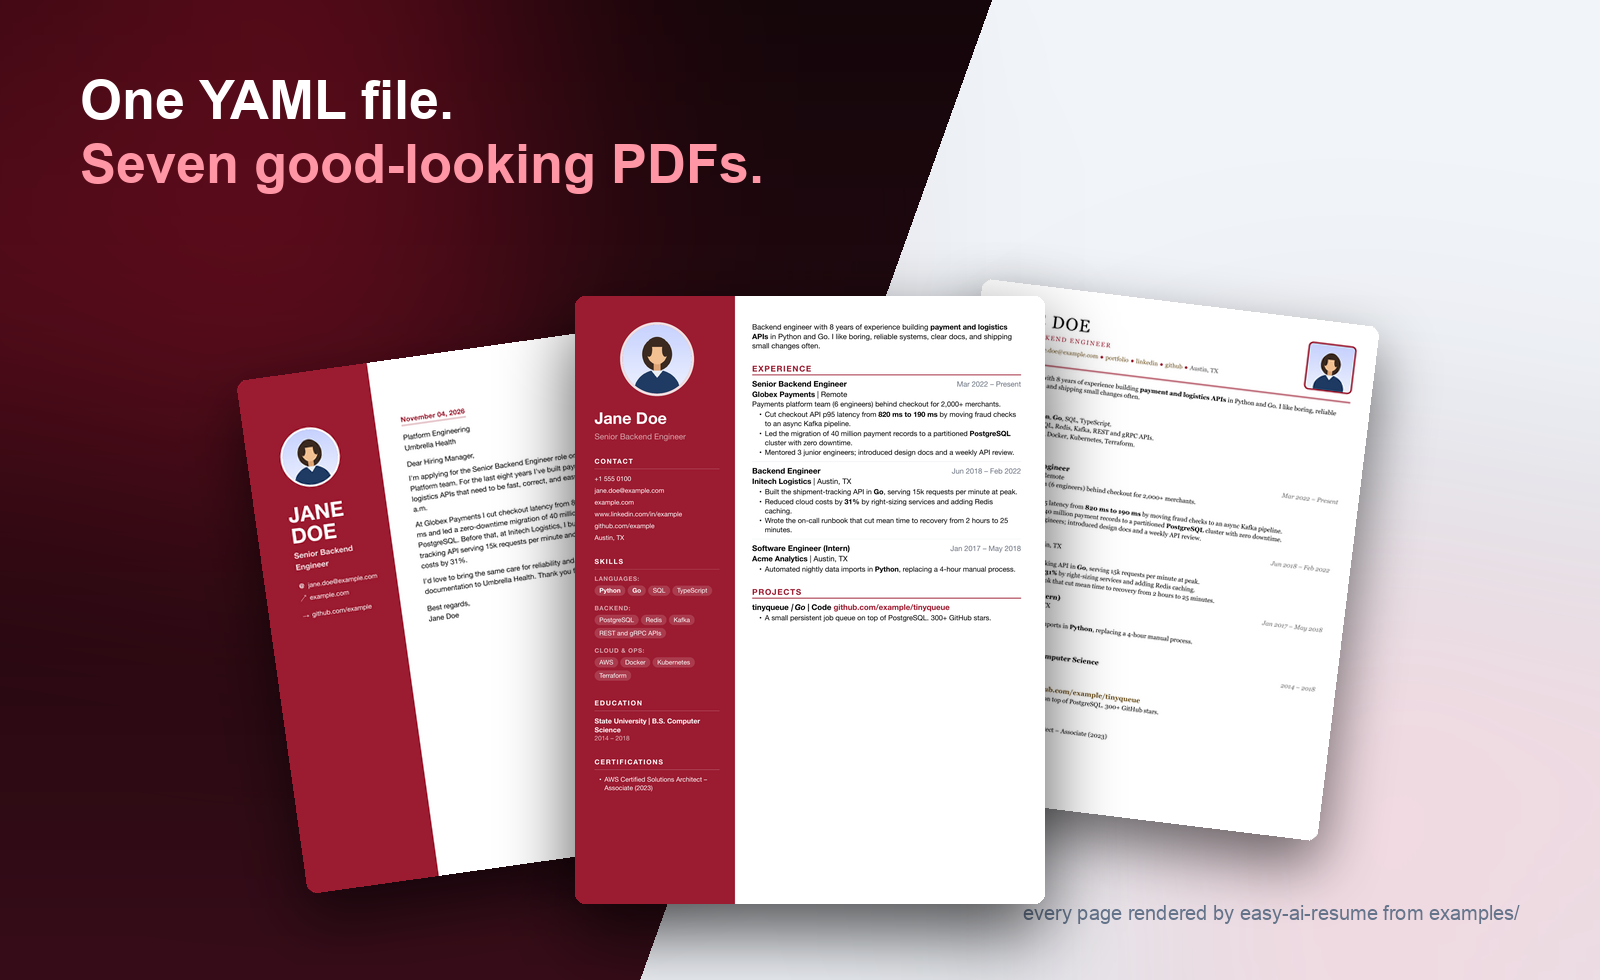
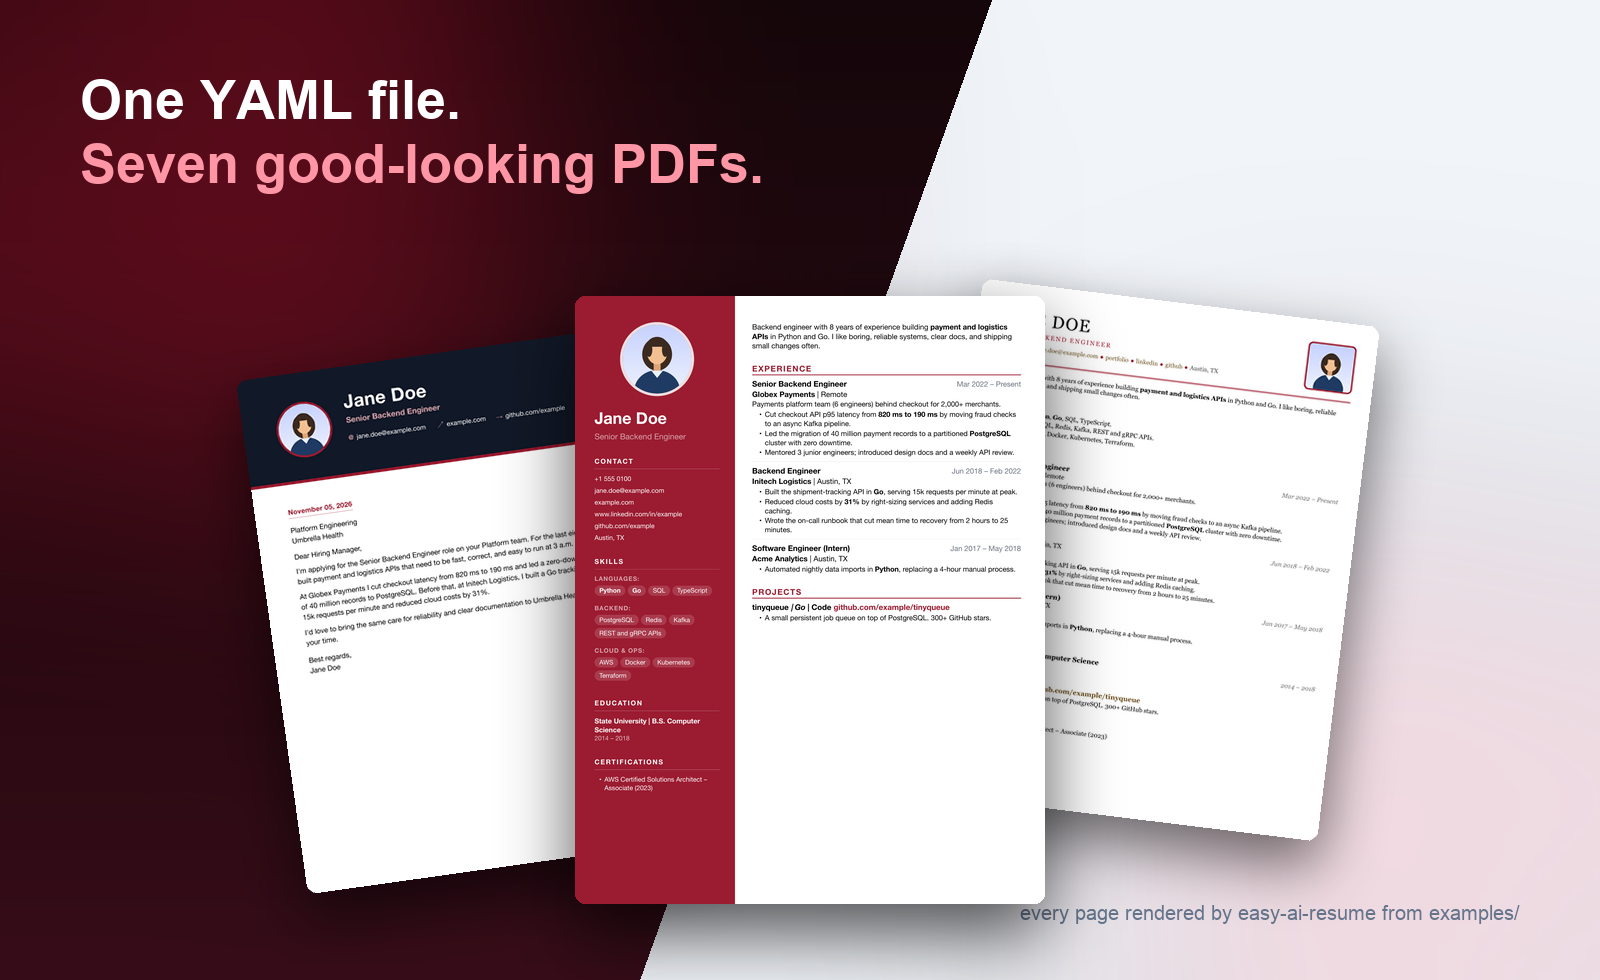
Re-render README images, add changelog entry
The showcase shows the bold cover letter, which now has its own
header-band look.

Changed region(s): [[0.125, 0.3367, 0.375, 0.9184], [0.625, 0.9184, 0.875, 0.949], [0.125, 0.0612, 0.2812, 0.1224]]

diff --git a/CHANGELOG.md b/CHANGELOG.md
@@ -1,5 +1,14 @@
 # Changelog
 
+## Unreleased
+
+- **Fixed:** links in cover letter PDFs (LinkedIn, GitHub, website) couldn't be clicked, in any theme.
+- **Fixed:** a large photo made each PDF over 2 MB, more than some job portals accept. Images are now
+  embedded at up to 300 dpi (print quality): a 2.1 MB CV becomes about 250 KB.
+- The `bold` cover letter now has its own look, a dark header band like the bold CV. It used to be
+  the same as `sidebar`'s.
+- New `startups:` section for your own companies, shown before `projects:` with the same fields.
+
 ## 0.9.0 — 2026-11-05
 
 - **Fixed:** `tailor --build` crashed with a photo theme (the tailored copy couldn't find the photo).
